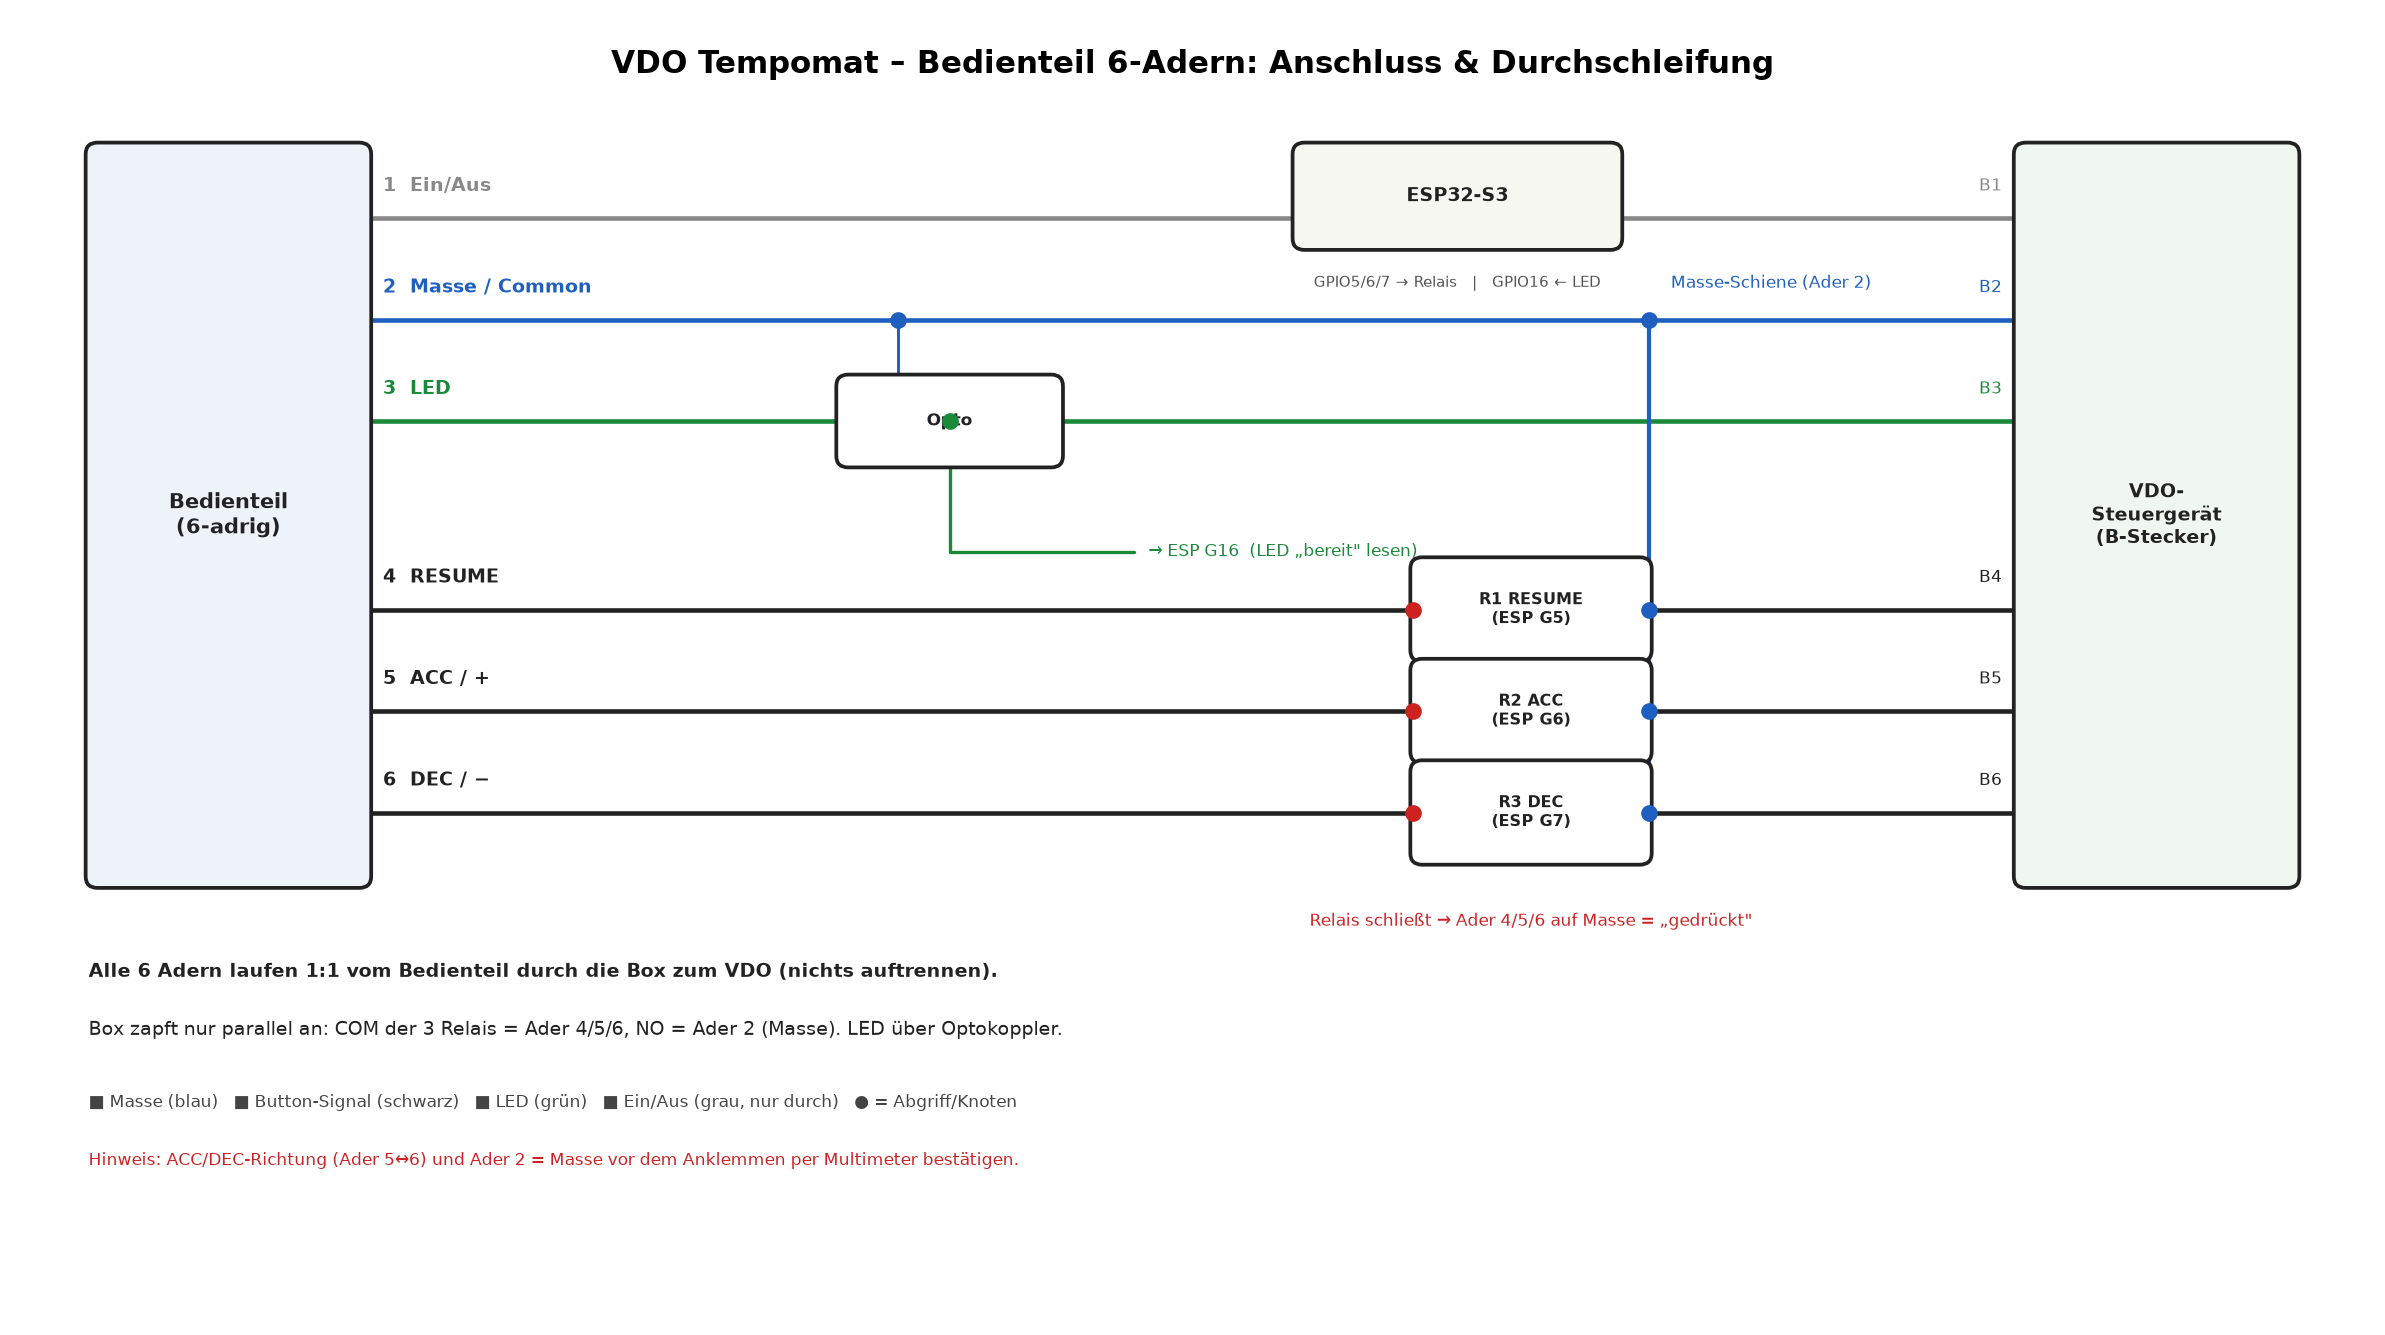
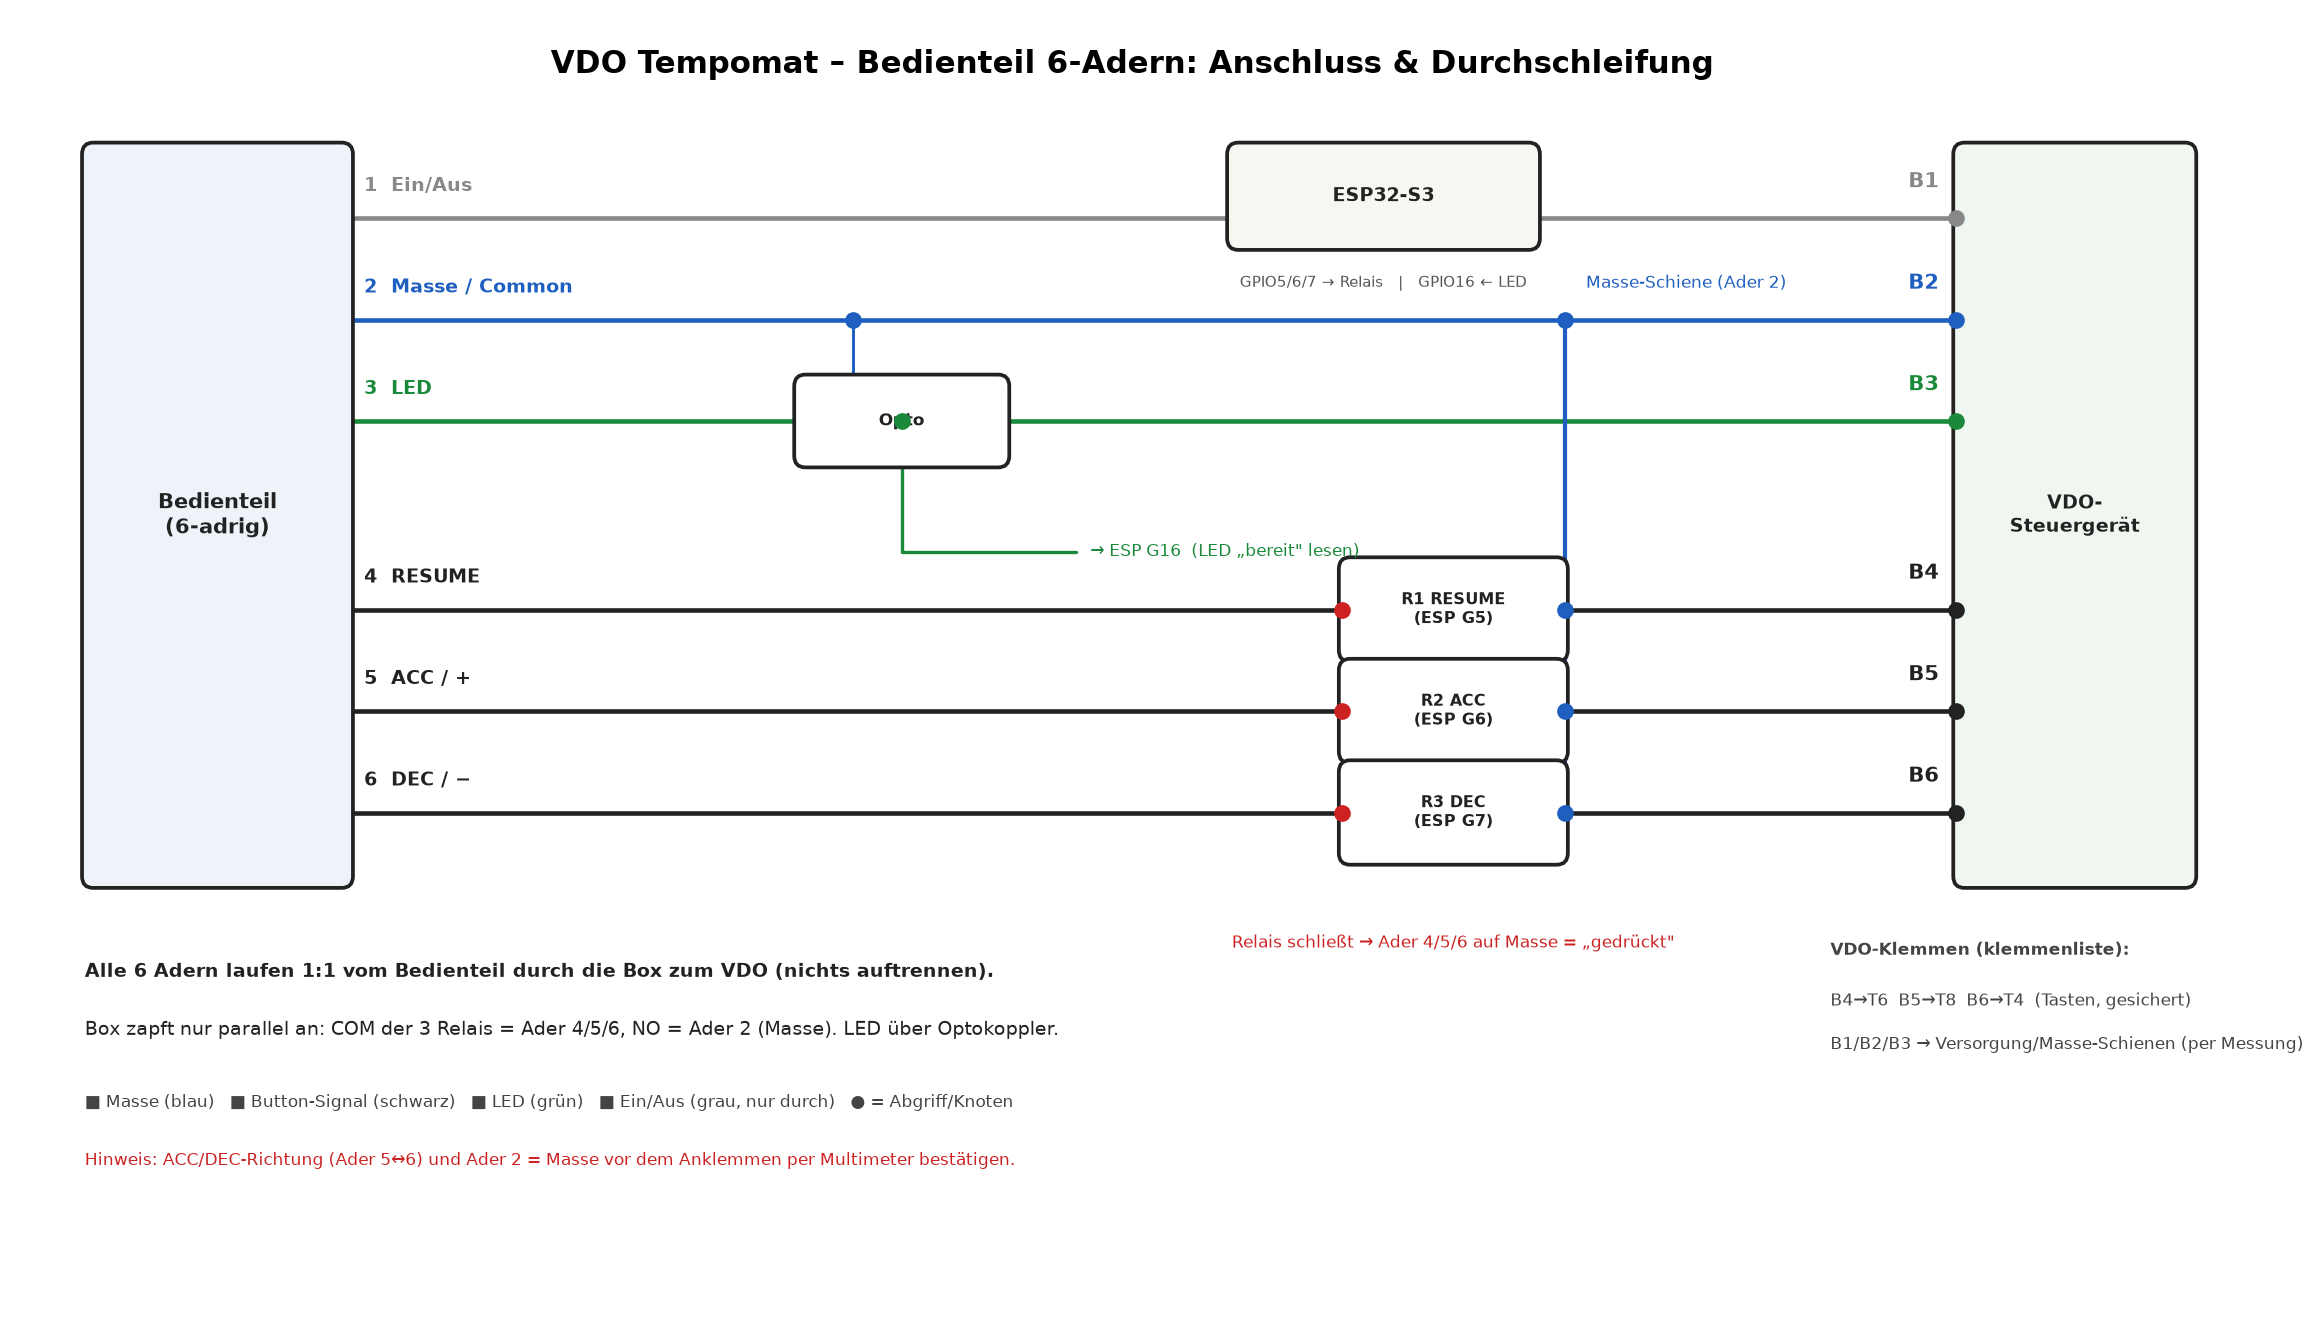
docs: B1-B6 VDO-Klemmen im 6-Adern-Schaltbild eingetragen (+ S/T-Mapping der Tasten)
Claude-Session: https://claude.ai/code/session_019hhT4rrVsqyD9aWQ2wqNbN

diff --git a/docs/verkabelung-bedienteil-6adern-diagram.py b/docs/verkabelung-bedienteil-6adern-diagram.py
@@ -26,14 +26,14 @@ func={1:"1  Ein/Aus",2:"2  Masse / Common",3:"3  LED",
 
 # Bedienteil + VDO boxes
 rbox(0.5,3.0,1.9,5.1,"Bedienteil\n(6-adrig)",fc="#eef3fa")
-rbox(13.6,3.0,1.9,5.1,"VDO-\nSteuergerät\n(B-Stecker)",fc="#f0f7f0",fs=9)
+rbox(13.9,3.0,1.7,5.1,"VDO-\nSteuergerät",fc="#f0f7f0",fs=9)
 
 # 6 wires straight through, labeled at both connector edges
 for n,y in W.items():
     c = BLU if n==2 else (GRN if n==3 else (GRY if n==1 else BLK))
-    wire([(2.4,y),(13.6,y)],c,2.2)
+    wire([(2.4,y),(13.9,y)],c,2.2)
     lab(2.5,y+0.22,func[n],c=c,fs=9,ha="left",w="bold")
-    lab(13.5,y+0.22,f"B{n}",c=c,fs=8,ha="right")
+    dot(13.9,y,c); lab(13.78,y+0.25,f"B{n}",c=c,fs=10,ha="right",w="bold")
 
 # Masse rail (vertical) tapping wire 2, feeding relay NO sides
 RAILX=11.1
@@ -51,7 +51,10 @@ for n in (4,5,6):
 
     dot(11.1,y,BLU)   # NO -> Masse
 
-lab(10.3,2.75,"Relais schließt → Ader 4/5/6 auf Masse = „gedrückt\"",c=RED,fs=8)
+lab(10.3,2.6,"Relais schließt → Ader 4/5/6 auf Masse = „gedrückt\"",c=RED,fs=8)
+lab(13.0,2.55,"VDO-Klemmen (klemmenliste):",c="#444",fs=8,ha="left",w="bold")
+lab(13.0,2.2,"B4→T6  B5→T8  B6→T4  (Tasten, gesichert)",c="#444",fs=8,ha="left")
+lab(13.0,1.9,"B1/B2/B3 → Versorgung/Masse-Schienen (per Messung)",c="#444",fs=8,ha="left")
 
 # Opto reading LED (wire 3) vs Masse (wire 2)
 rbox(5.6,5.9,1.5,0.6,"Opto",fc="#fff",fs=8)
